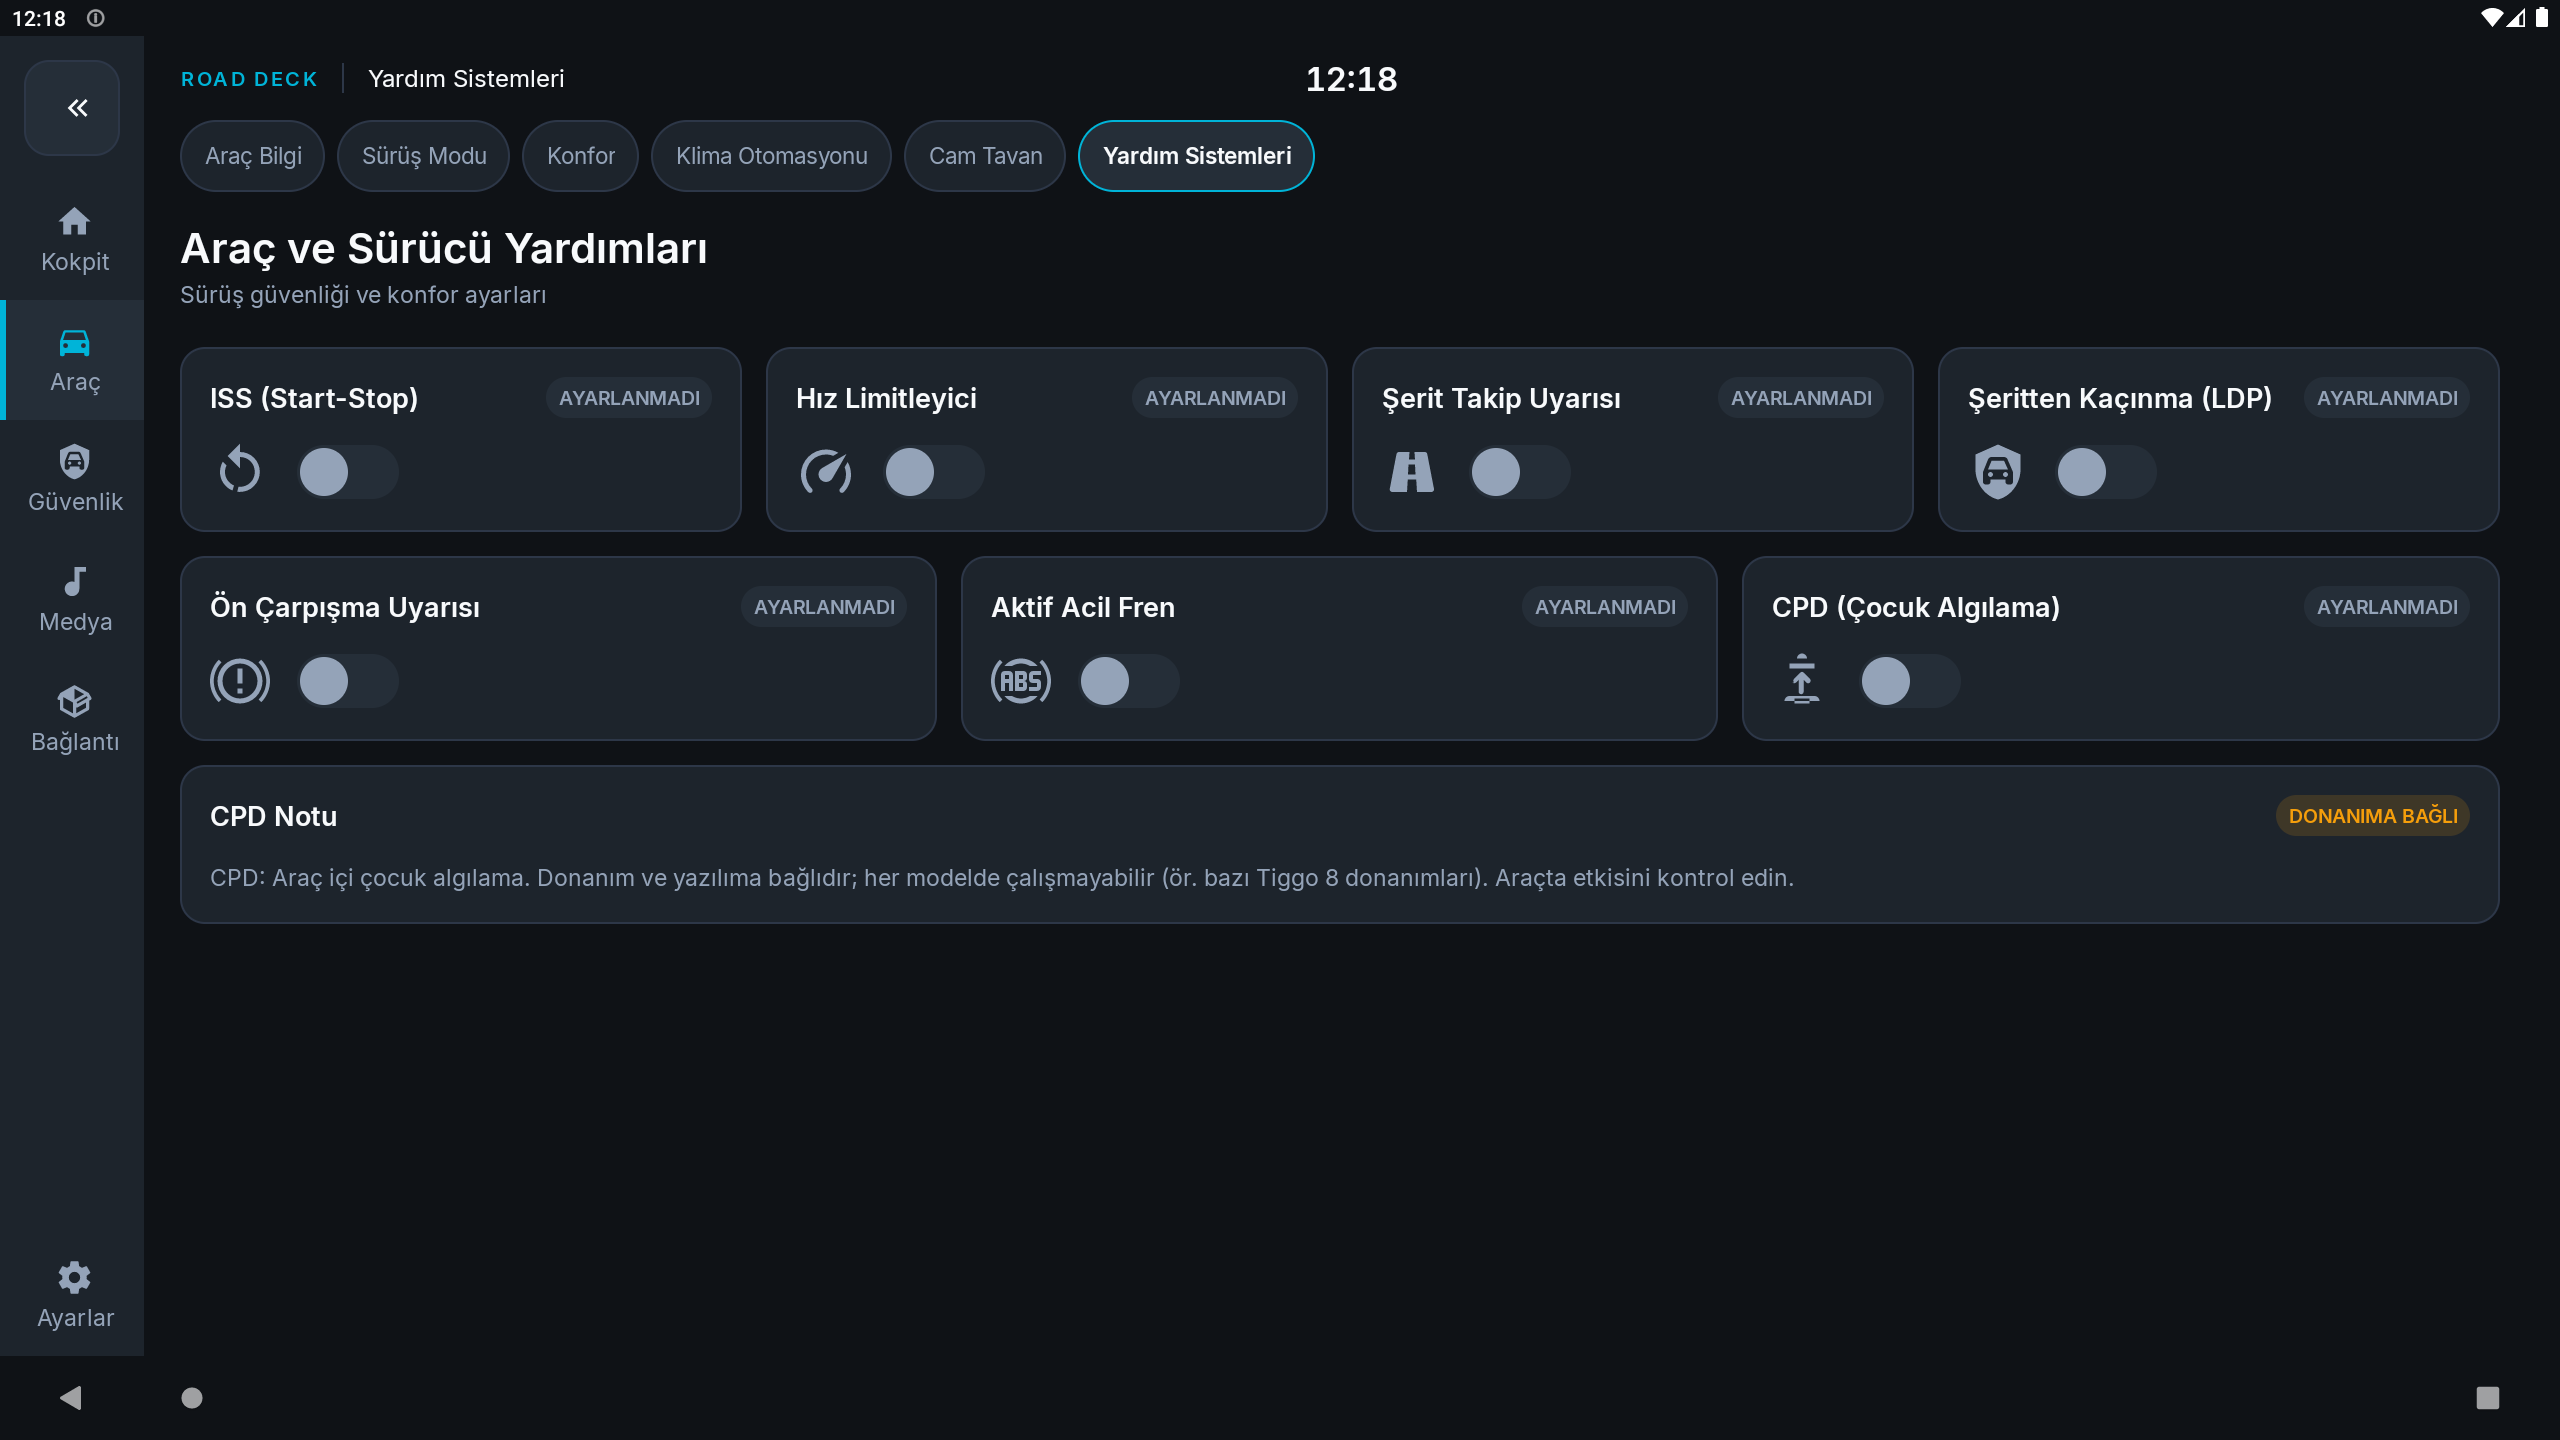
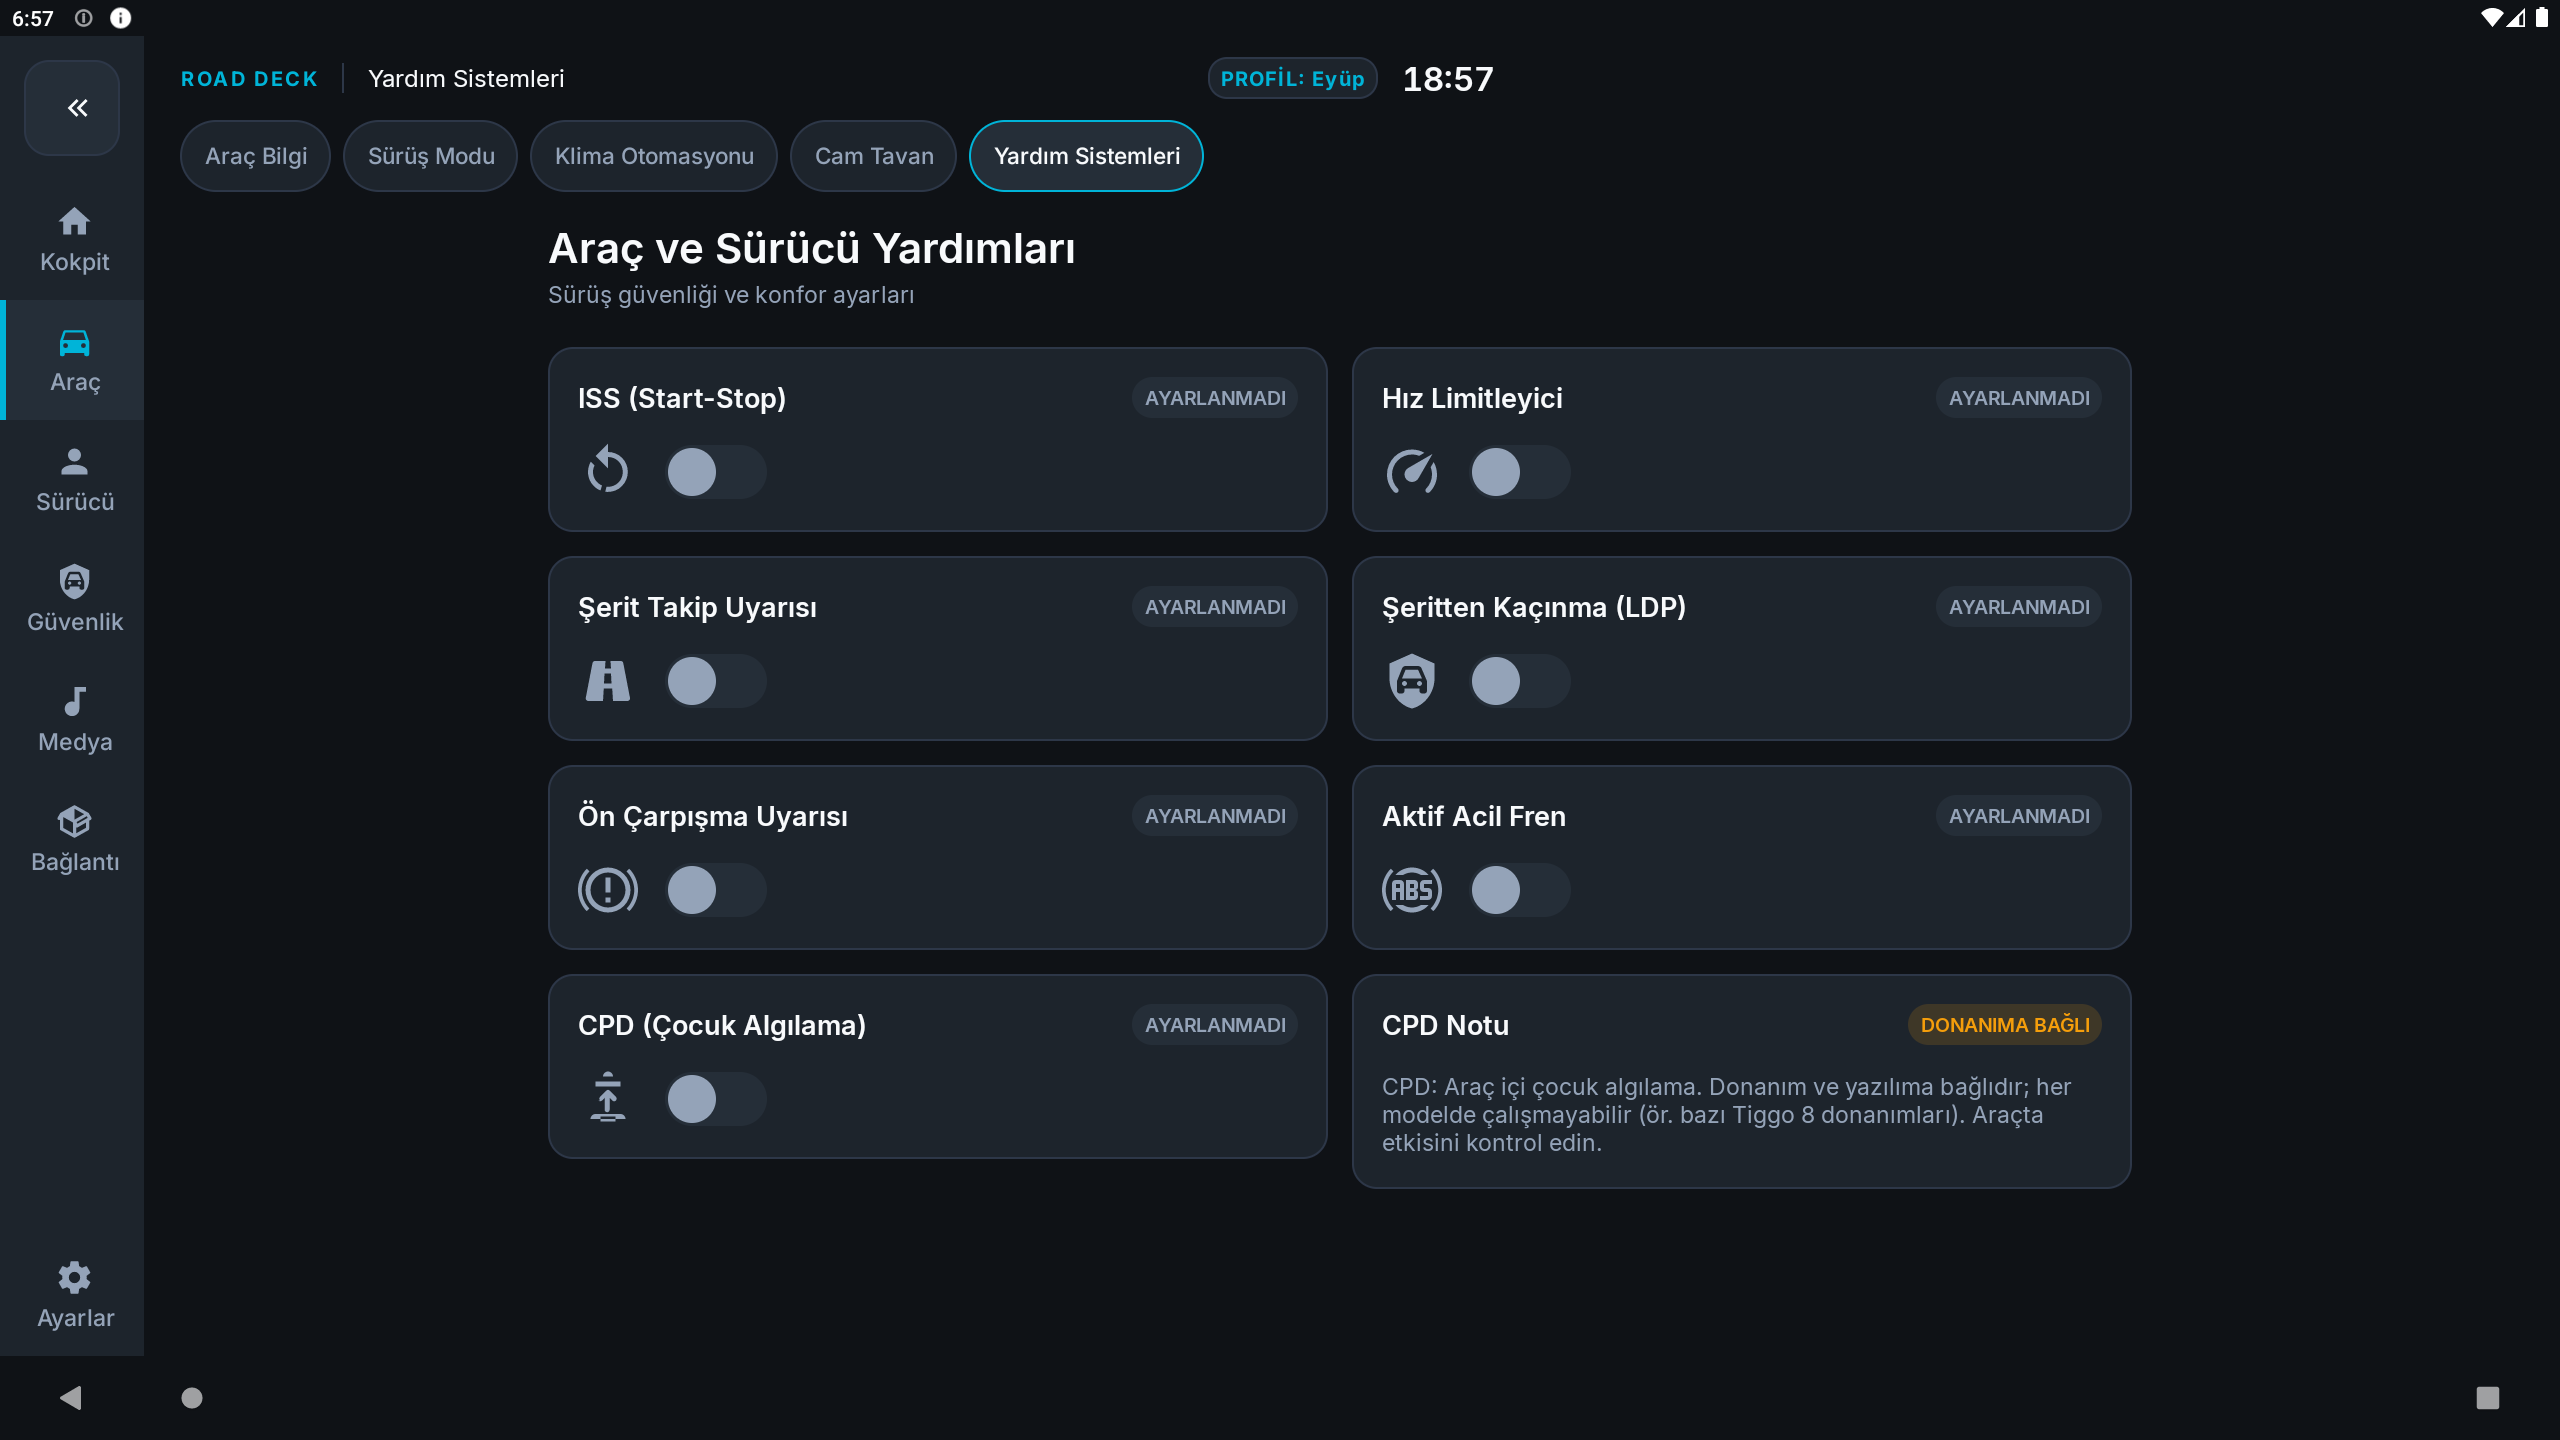
fix: Yardim Sistemleri kartlarini iki kolona al
- 7 kart + CPD notu 8 hucreye tam oturuyor; bos kolon kalmadi
- Kart genisligi arttigi icin baslik/durum rozeti alt satira inmiyor
- CPD notu son kartla ayni satirda

diff --git a/app/src/main/java/com/mapcontrol/ui/builder/AssistTabBuilder.java b/app/src/main/java/com/mapcontrol/ui/builder/AssistTabBuilder.java
@@ -82,17 +82,17 @@ public class AssistTabBuilder {
         for (int i = 0; i < ASSIST_CARDS.length; i++) {
             savedValues[i] = prefs.getInt((String) ASSIST_CARDS[i][4], -1);
             active[i] = savedValues[i] == (Integer) ASSIST_CARDS[i][2];
-            grid.add(buildCard(i), 2);
+            grid.add(buildCard(i), 4);
         }
 
-        CockpitCard cpd = new CockpitCard(context, context.getString(R.string.ck_assist_cpd_note)).span(8);
+        CockpitCard cpd = new CockpitCard(context, context.getString(R.string.ck_assist_cpd_note)).span(4);
         cpd.status(StatusBadge.advisory(context, context.getString(R.string.ck_assist_hardware_dep)));
         TextView note = new TextView(context);
         CockpitTokens.bodySm(note);
         note.setText(R.string.assist_cpd_disclaimer);
         note.setTextColor(CockpitTokens.color(context, R.color.ck_text_medium));
         cpd.addContent(note);
-        grid.add(cpd, 8);
+        grid.add(cpd, 4);
 
         scrollView.addView(outer, new ScrollView.LayoutParams(
                 LinearLayout.LayoutParams.MATCH_PARENT, LinearLayout.LayoutParams.WRAP_CONTENT));
